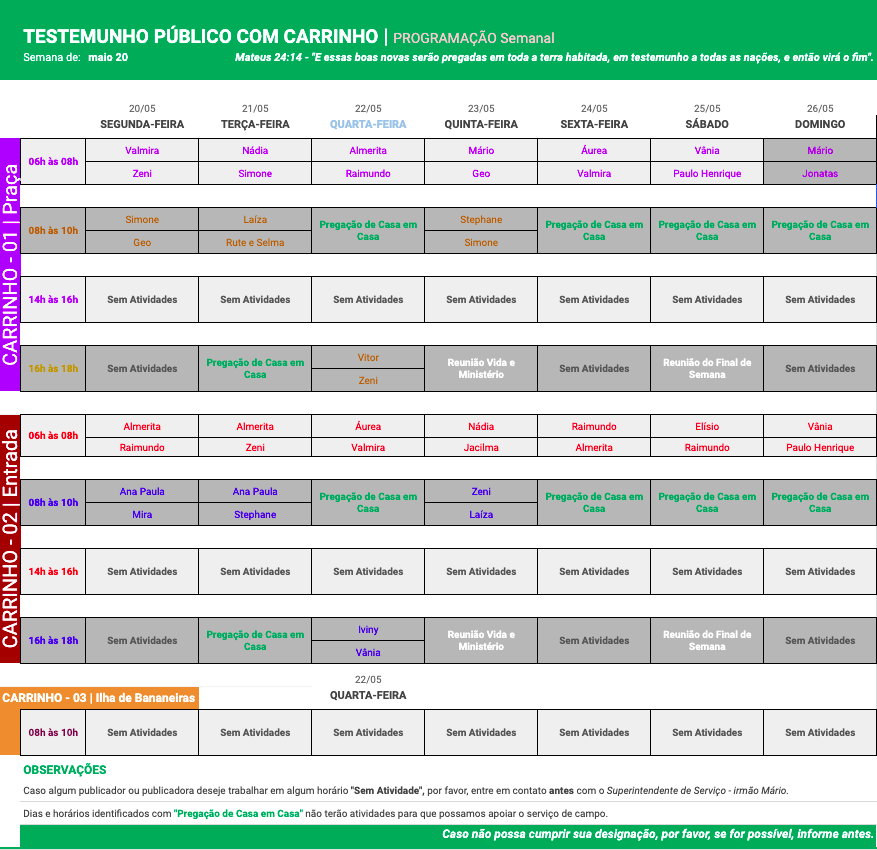
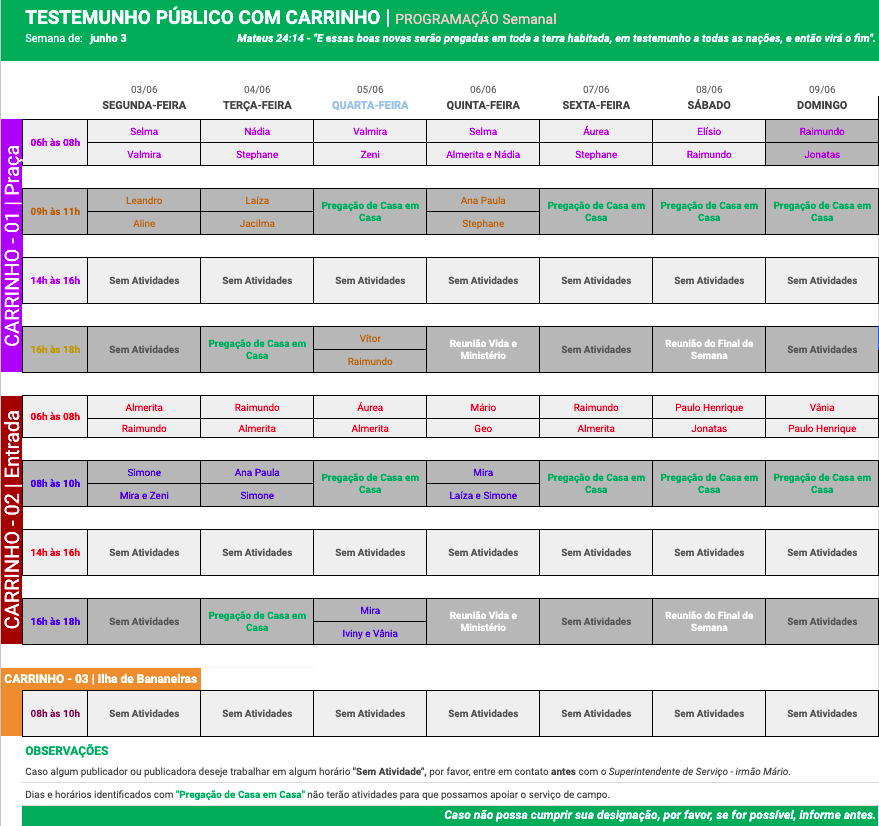
update car, tasks and services and remove medias unused

Changed region(s): [[0.0, 0.0, 1.0, 1.0], [0.862, 0.8172, 0.8928, 0.8475], [0.7389, 0.8172, 0.7697, 0.8475]]

diff --git a/pages/mecanicas.html b/pages/mecanicas.html
@@ -370,7 +370,7 @@
                                 </tr>
                                 <tr>
                                     <th scope="row">Sábado - 31/08</th>
-                                    <td>Dielson</td>
+                                    <td>Claudemiro</td>
                                     <td>Dielson</td>
                                     <td>Raimundo</td>
                                     <td>Vitor</td>

diff --git a/pages/servicos.html b/pages/servicos.html
@@ -280,7 +280,7 @@
                             >
                         </h2>
                         <h4 style="text-align: center; color: black">
-                            <strong>Semana de 20 à 26 de Maio</strong>
+                            <strong>Semana de 03 à 09 de Junho</strong>
                         </h4>
                         <div>
                             <img
